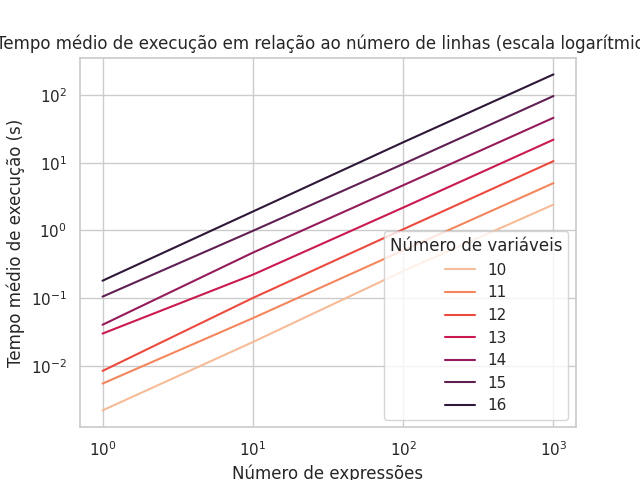
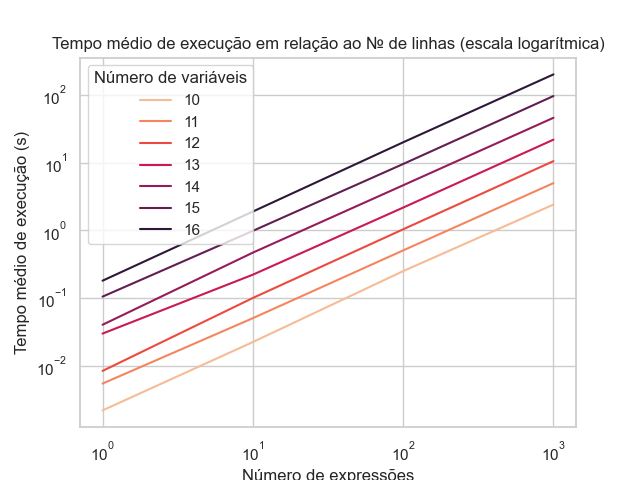
'Análise de desempenho' e 'Resultados e Discussões'

diff --git a/runtime_analysis/runtime_data_analysis.py b/runtime_analysis/runtime_data_analysis.py
@@ -1,5 +1,6 @@
 import pandas as pd
 import seaborn as sns
+import numpy as np
 
 # Read the data
 df = pd.read_csv("avg_runtime_report.csv")
@@ -12,7 +13,7 @@ palette = sns.color_palette("rocket_r", 4)
 
 sns_plot = sns.lineplot(x="n_vars", y="avg_time", hue="n_lines", palette=palette, data=df)
 # set title
-sns_plot.set_title("Tempo médio de execução em relação ao número de variáveis")
+sns_plot.set_title("Tempo médio de execução em relação ao № de variáveis")
 # set x label
 sns_plot.set_xlabel("Número de variáveis")
 # set y label
@@ -22,20 +23,83 @@ sns_plot.legend(title="Número de expressões")
 # save plot
 sns_plot.figure.savefig("avg_runtime_n_vars.png")
 
-
 sns_plot.set(xscale="log", yscale="log")
 # set title
-sns_plot.set_title("Tempo médio de execução em relação ao número de variáveis (escala logarítmica)")
+sns_plot.set_title("Tempo médio de execução em relação ao № de variáveis (escala logarítmica)")
 sns_plot.figure.savefig("avg_runtime_n_vars_log.png")
 
+# clear
+sns_plot.clear()
+
+
+# generate a list for n_vars from dataframe where n_lines=1000
+n_vars = df.loc[df['n_lines'] == 1000, 'n_vars'].tolist()
+# generate a list for avg_time from dataframe where n_lines=1000
+avg_time = df.loc[df['n_lines'] == 1000, 'avg_time'].tolist()
+
+# generate a list for f(x)=2^x
+x = [i for i in range(1, len(n_vars)+1)]
+y = [2**i for i in range(1, len(n_vars)+1)]
+
+f_x = [x, y]
+F_x = [n_vars, avg_time]
+# compute correlation coefficient between f(x) and F(x)
+corr = np.corrcoef(f_x, F_x)
+
+# plot correlation coefficient between f(x) and F(x)
+sns_plot = sns.heatmap(corr, annot=True, cmap="YlGnBu")
+# set title
+sns_plot.set_title("Correlação entre f(n)=2^n e F(n)")
+# set x label
+sns_plot.set_xlabel("f(n)=2^n")
+# set y label
+sns_plot.set_ylabel("Tempo de execução (s) por número de variáveis")
+# save plot
+sns_plot.figure.savefig("correlation_runtime_by_n_vars.png")
+
+# mean correlation coefficient
+mean_corr = np.mean(corr)
+print("Mean correlation coefficient: ", mean_corr)
+
 # clear plot
+sns_plot.clear()
+
+# generate a list for n_lines from dataframe where n_vars=16
+n_lines = df.loc[df['n_vars'] == 16, 'n_lines'].tolist()
+# generate a list for avg_time from dataframe where n_vars=16
+avg_time = df.loc[df['n_vars'] == 16, 'avg_time'].tolist()
+
+# generate a list for f(x)=x
+x = [i for i in range(1, len(n_lines)+1)]
+y = [i for i in range(1, len(n_lines)+1)]
+
+f_x = [x, y]
+F_x = [n_lines, avg_time]
+# compute correlation coefficient between f(x) and F(x)
+corr = np.corrcoef(f_x, F_x)
+
+# plot correlation coefficient between f(x) and F(x)
+sns_plot = sns.heatmap(corr, annot=True, cmap="YlGnBu")
+# set title
+sns_plot.set_title("Correlação entre f(n)=n e F(n)")
+# set x label
+sns_plot.set_xlabel("f(n)=n")
+# set y label
+sns_plot.set_ylabel("Tempo de execução (s) por número de expressões")
+# save plot
+sns_plot.figure.savefig("correlation_runtime_by_n_lines.png")
+
+# mean correlation coefficient
+mean_corr = np.mean(corr)
+print("Mean correlation coefficient: ", mean_corr)
+
 sns_plot.clear()
 
 palette = sns.color_palette("rocket_r", 7)
 
 sns_plot = sns.lineplot(x="n_lines", y="avg_time", hue="n_vars", palette=palette, data=df)
 # set title
-sns_plot.set_title("Tempo médio de execução em relação ao número de linhas")
+sns_plot.set_title("Tempo médio de execução em relação ao № de linhas")
 # set x label
 sns_plot.set_xlabel("Número de expressões")
 # set y label
@@ -48,7 +112,7 @@ sns_plot.figure.savefig("avg_runtime_n_lines.png")
 
 sns_plot.set(xscale="log", yscale="log")
 # set title
-sns_plot.set_title("Tempo médio de execução em relação ao número de linhas (escala logarítmica)")
+sns_plot.set_title("Tempo médio de execução em relação ao № de linhas (escala logarítmica)")
 sns_plot.figure.savefig("avg_runtime_n_lines_log.png")
 
 # clear plot
